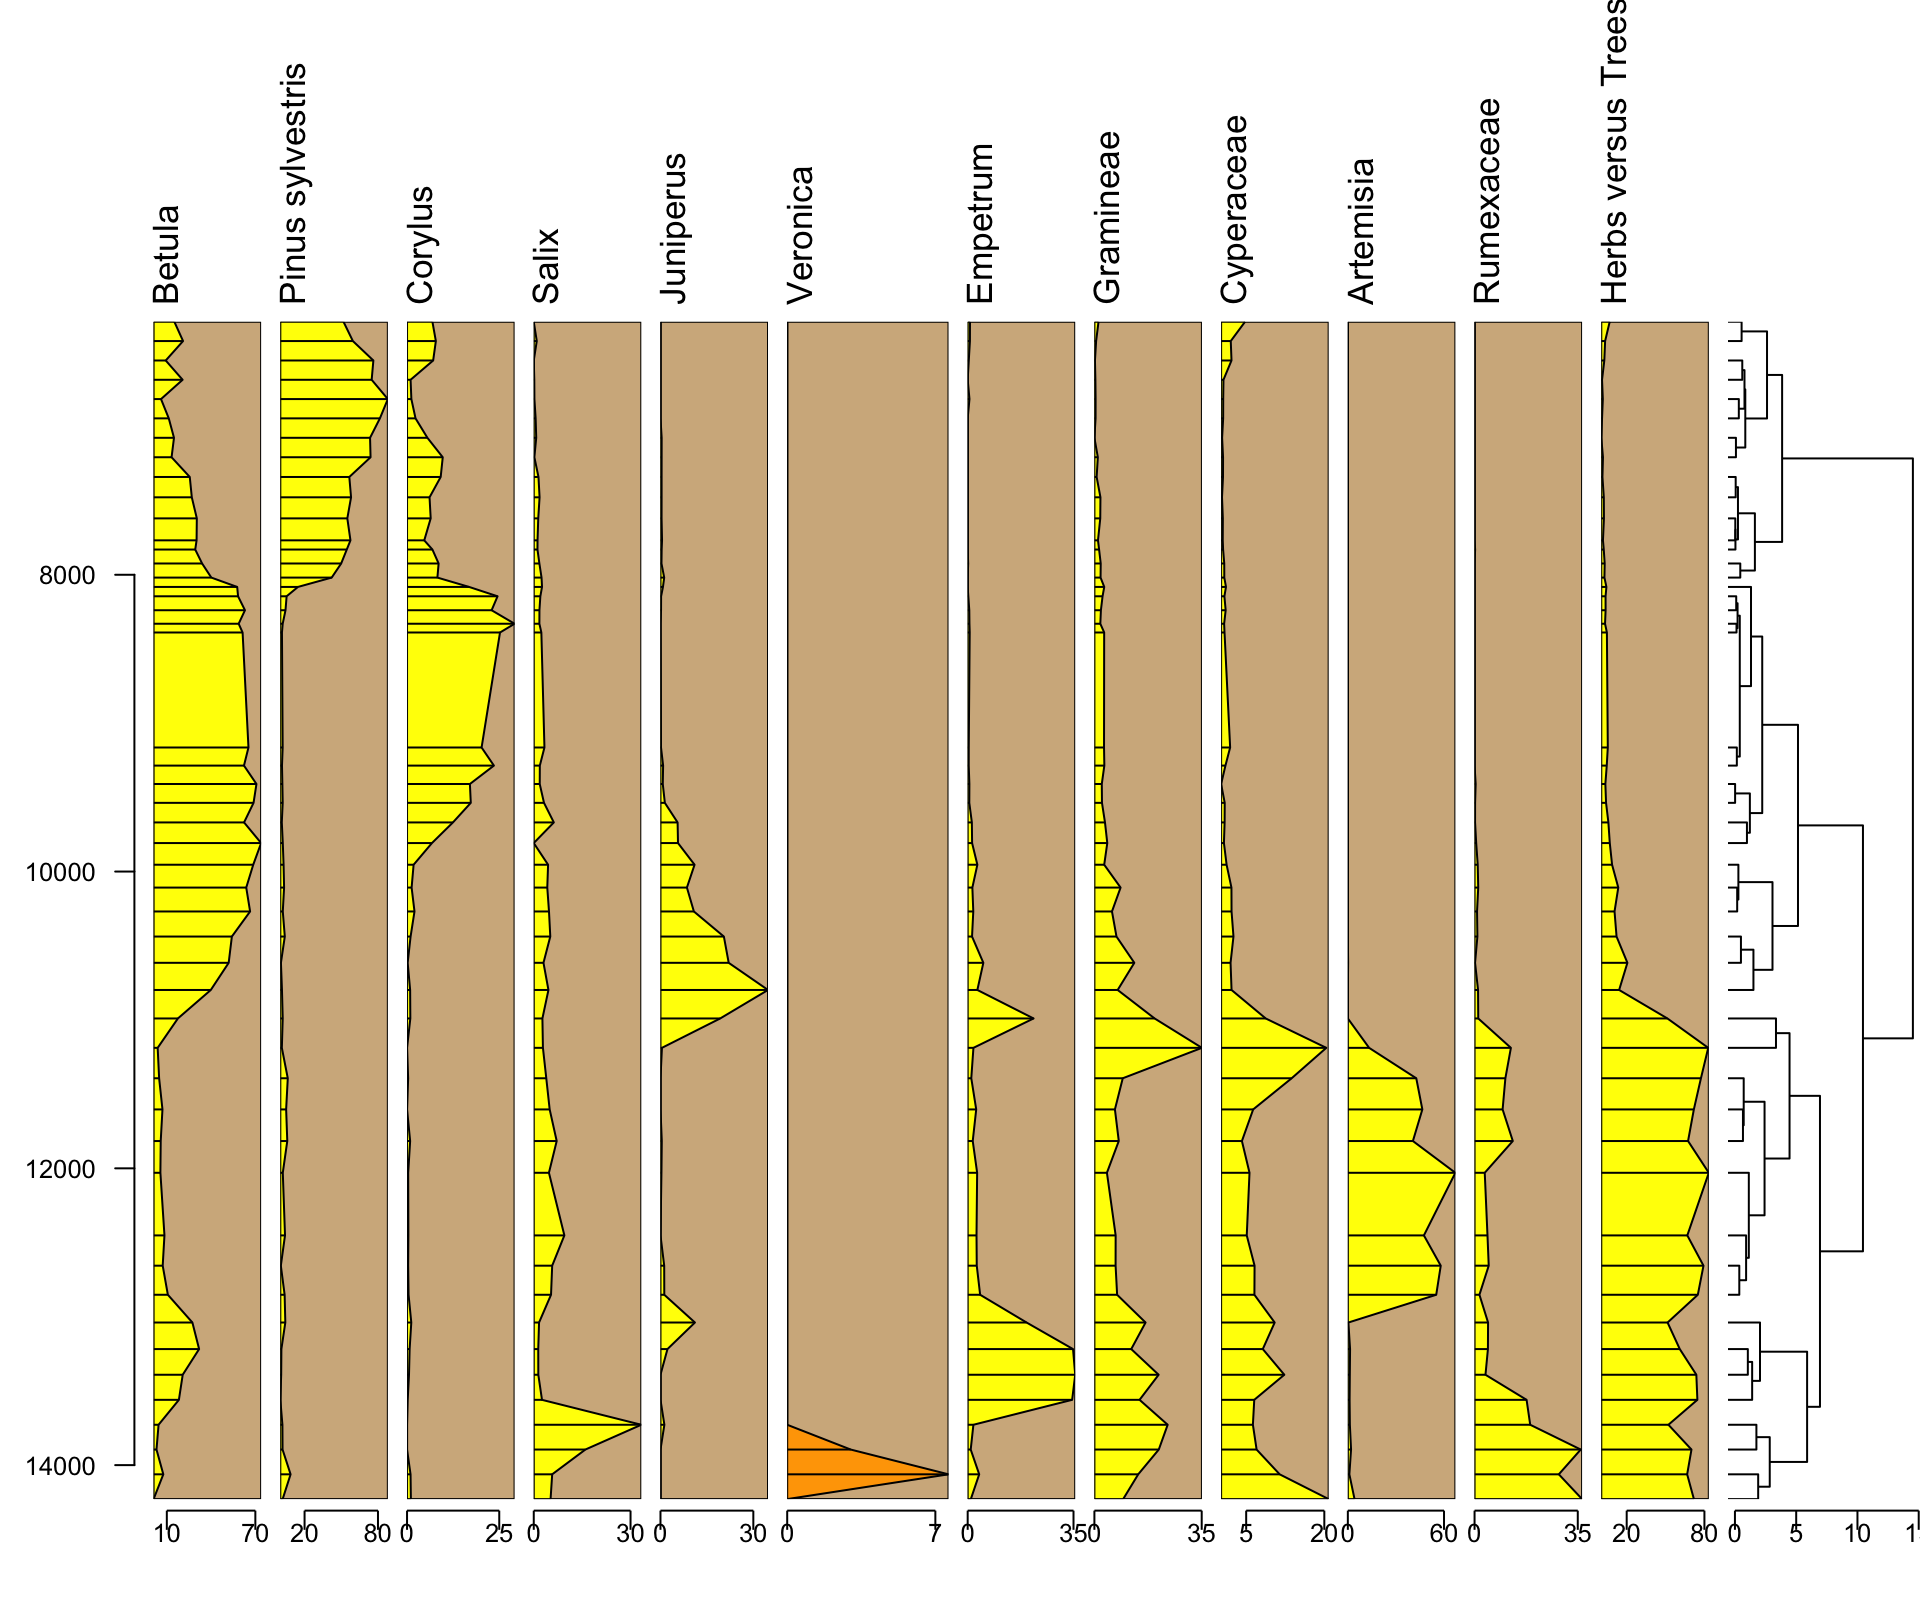
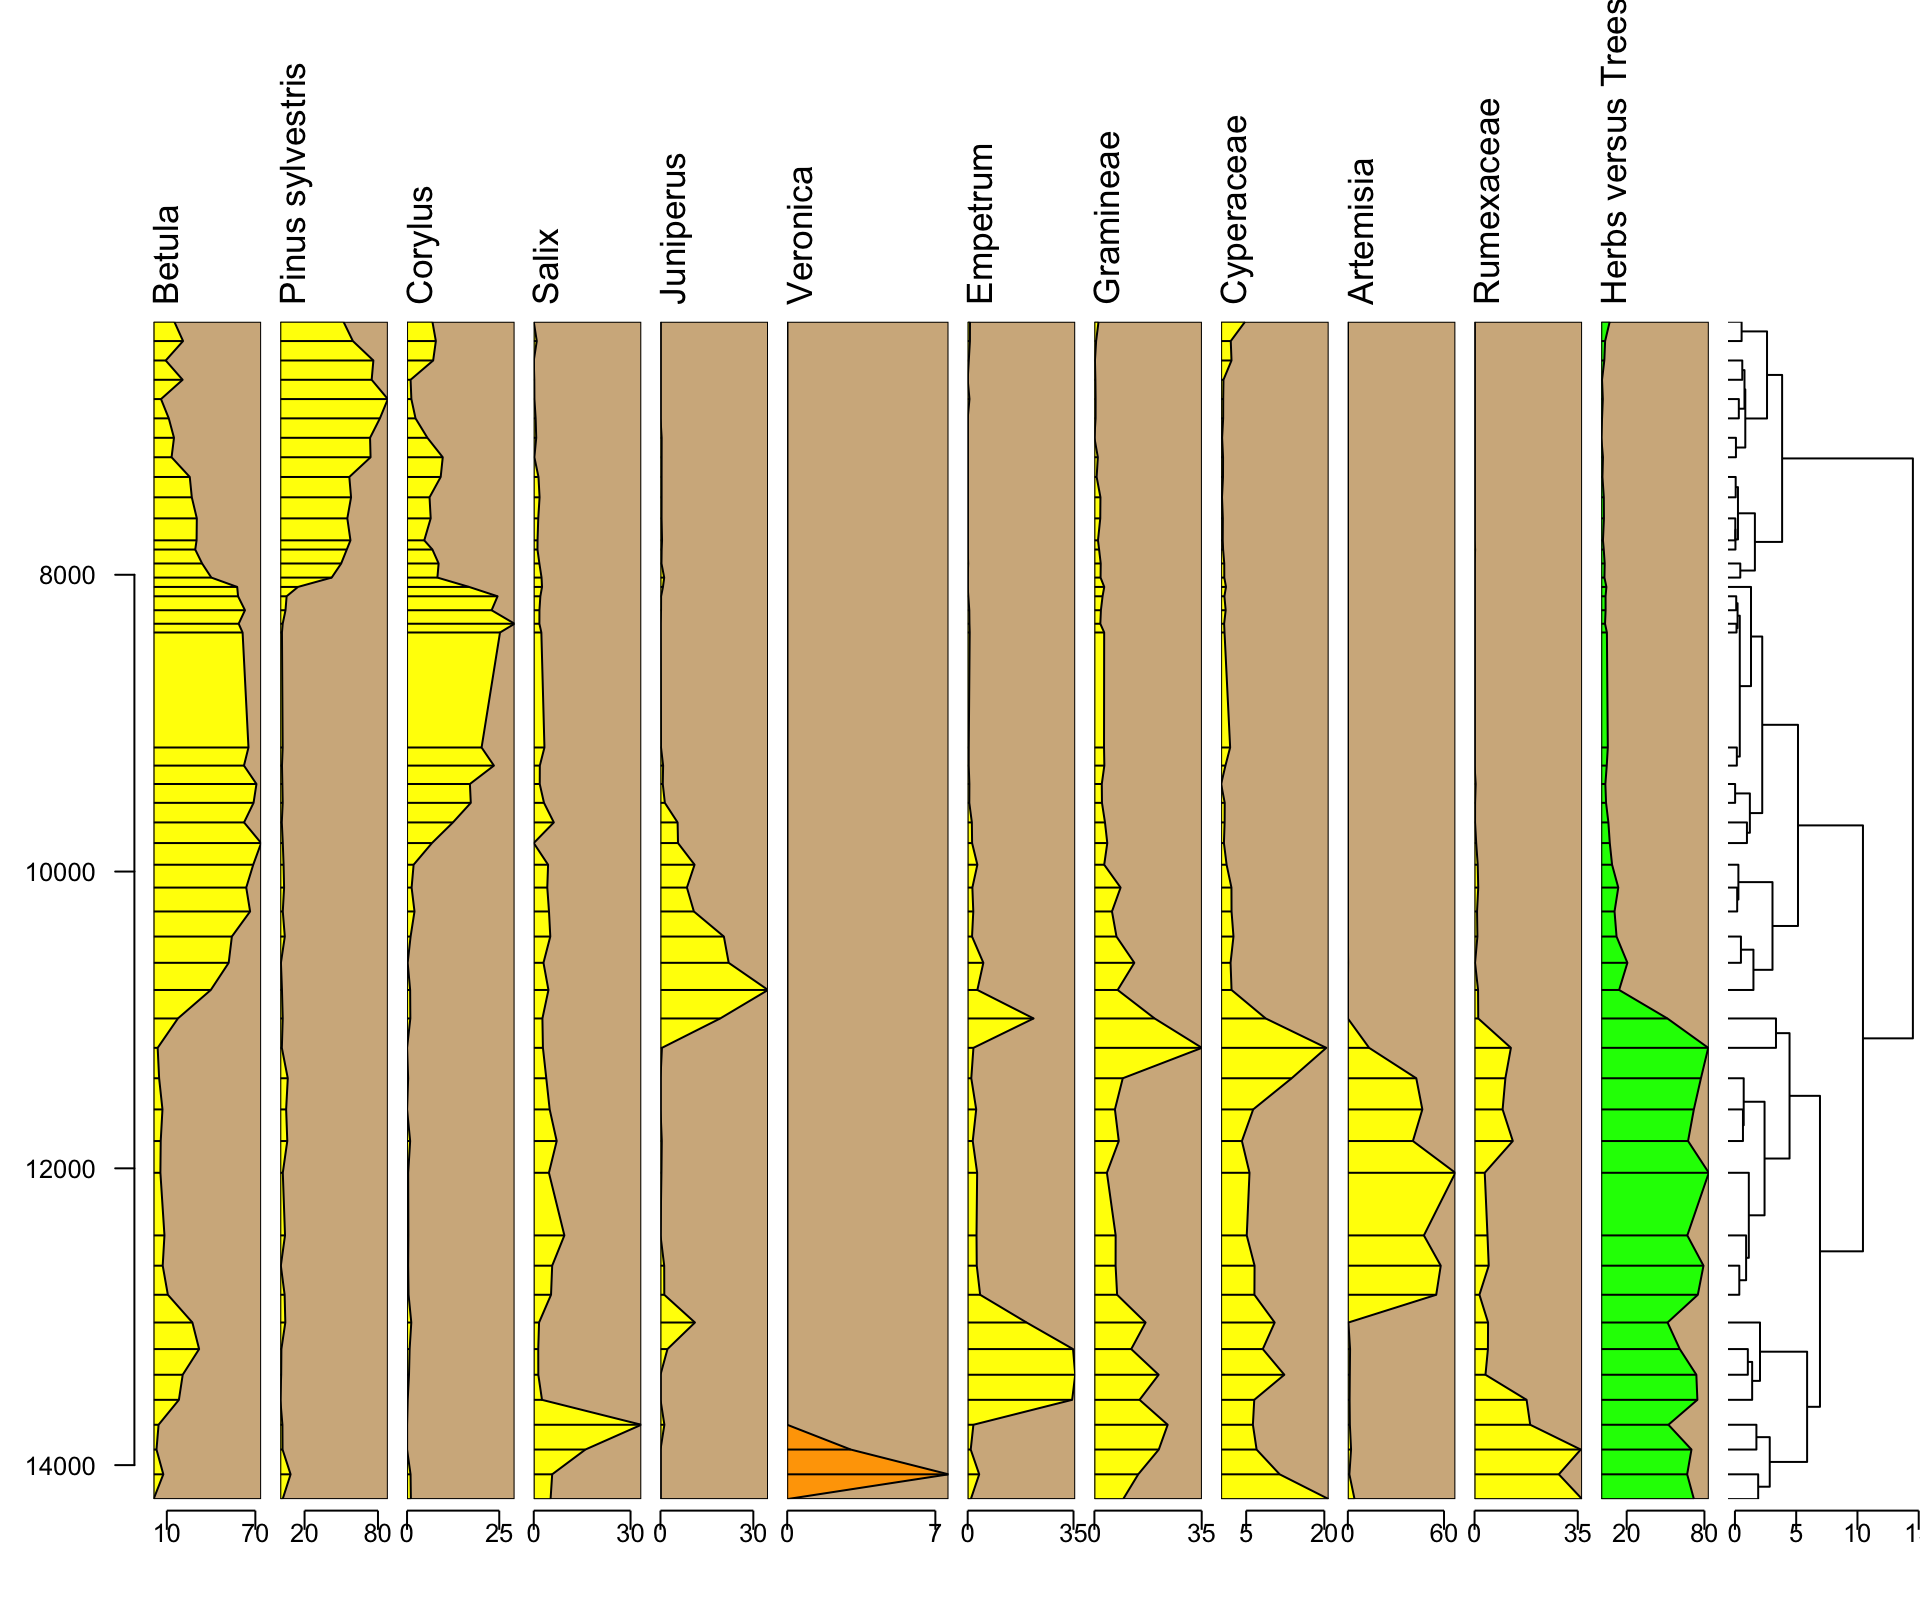
updated summary color

Changed region(s): [[0.8125, 0.4963, 0.9062, 0.9305]]

diff --git a/chapters/chp1_stratplot.html b/chapters/chp1_stratplot.html
@@ -458,11 +458,12 @@ pre > code.sourceCode > span > a:first-child::before { text-decoration: underlin
 <span id="cb12-17"><a href="#cb12-17" aria-hidden="true" tabindex="-1"></a>           <span class="at">y.rev=</span><span class="cn">TRUE</span>, </span>
 <span id="cb12-18"><a href="#cb12-18" aria-hidden="true" tabindex="-1"></a>           <span class="at">plot.poly=</span><span class="cn">TRUE</span>,</span>
 <span id="cb12-19"><a href="#cb12-19" aria-hidden="true" tabindex="-1"></a>           <span class="at">col.poly=</span><span class="fu">c</span>(<span class="fu">rep</span>(<span class="st">"yellow"</span>, <span class="dv">5</span>),<span class="st">"orange"</span>,</span>
-<span id="cb12-20"><a href="#cb12-20" aria-hidden="true" tabindex="-1"></a>                      <span class="fu">rep</span>(<span class="st">"yellow"</span>, <span class="dv">5</span>)),</span>
-<span id="cb12-21"><a href="#cb12-21" aria-hidden="true" tabindex="-1"></a>           <span class="at">col.line=</span><span class="st">"black"</span>,</span>
-<span id="cb12-22"><a href="#cb12-22" aria-hidden="true" tabindex="-1"></a>           <span class="at">col.bar=</span><span class="st">"black"</span>,</span>
-<span id="cb12-23"><a href="#cb12-23" aria-hidden="true" tabindex="-1"></a>           <span class="at">col.bg=</span><span class="st">"tan"</span>,</span>
-<span id="cb12-24"><a href="#cb12-24" aria-hidden="true" tabindex="-1"></a>           <span class="at">clust=</span>aber_clust)</span></code><button title="Copy to Clipboard" class="code-copy-button"><i class="bi"></i></button></pre></div>
+<span id="cb12-20"><a href="#cb12-20" aria-hidden="true" tabindex="-1"></a>                      <span class="fu">rep</span>(<span class="st">"yellow"</span>, <span class="dv">5</span>),</span>
+<span id="cb12-21"><a href="#cb12-21" aria-hidden="true" tabindex="-1"></a>                      <span class="st">"green"</span>),</span>
+<span id="cb12-22"><a href="#cb12-22" aria-hidden="true" tabindex="-1"></a>           <span class="at">col.line=</span><span class="st">"black"</span>,</span>
+<span id="cb12-23"><a href="#cb12-23" aria-hidden="true" tabindex="-1"></a>           <span class="at">col.bar=</span><span class="st">"black"</span>,</span>
+<span id="cb12-24"><a href="#cb12-24" aria-hidden="true" tabindex="-1"></a>           <span class="at">col.bg=</span><span class="st">"tan"</span>,</span>
+<span id="cb12-25"><a href="#cb12-25" aria-hidden="true" tabindex="-1"></a>           <span class="at">clust=</span>aber_clust)</span></code><button title="Copy to Clipboard" class="code-copy-button"><i class="bi"></i></button></pre></div>
 <div class="cell-output-display">
 <div>
 <figure class="figure">
